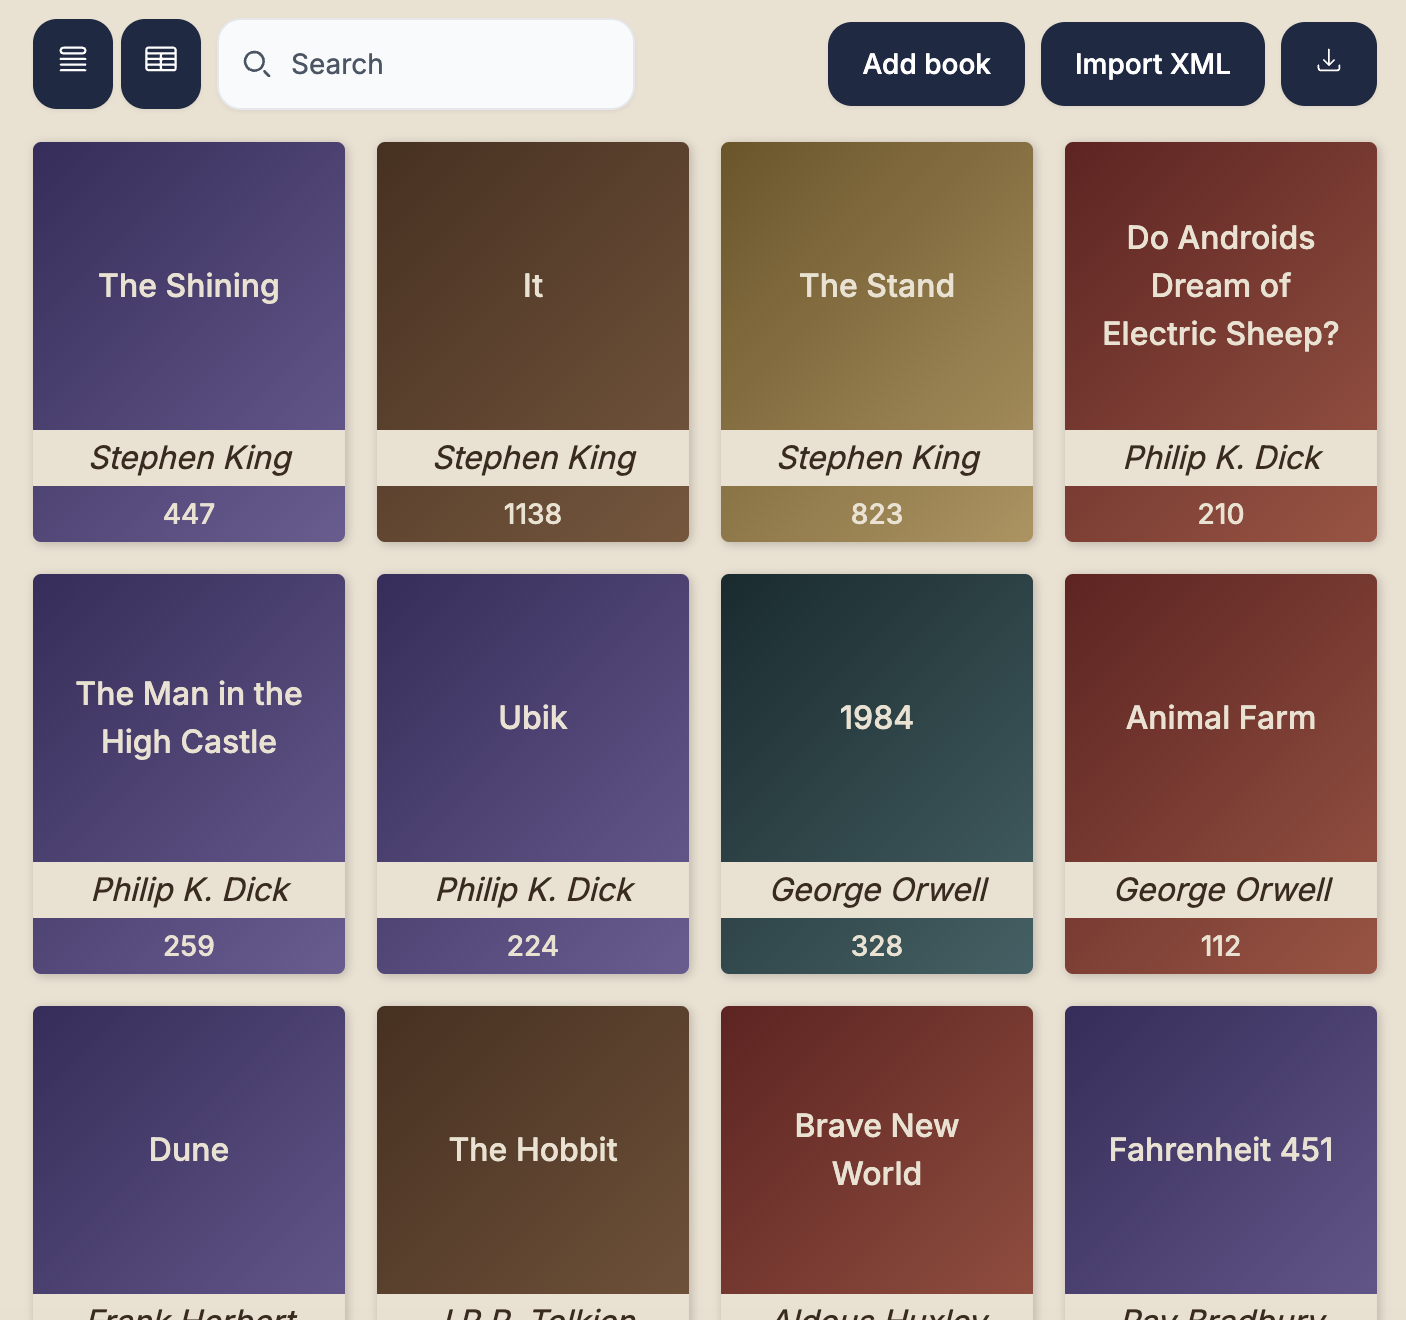
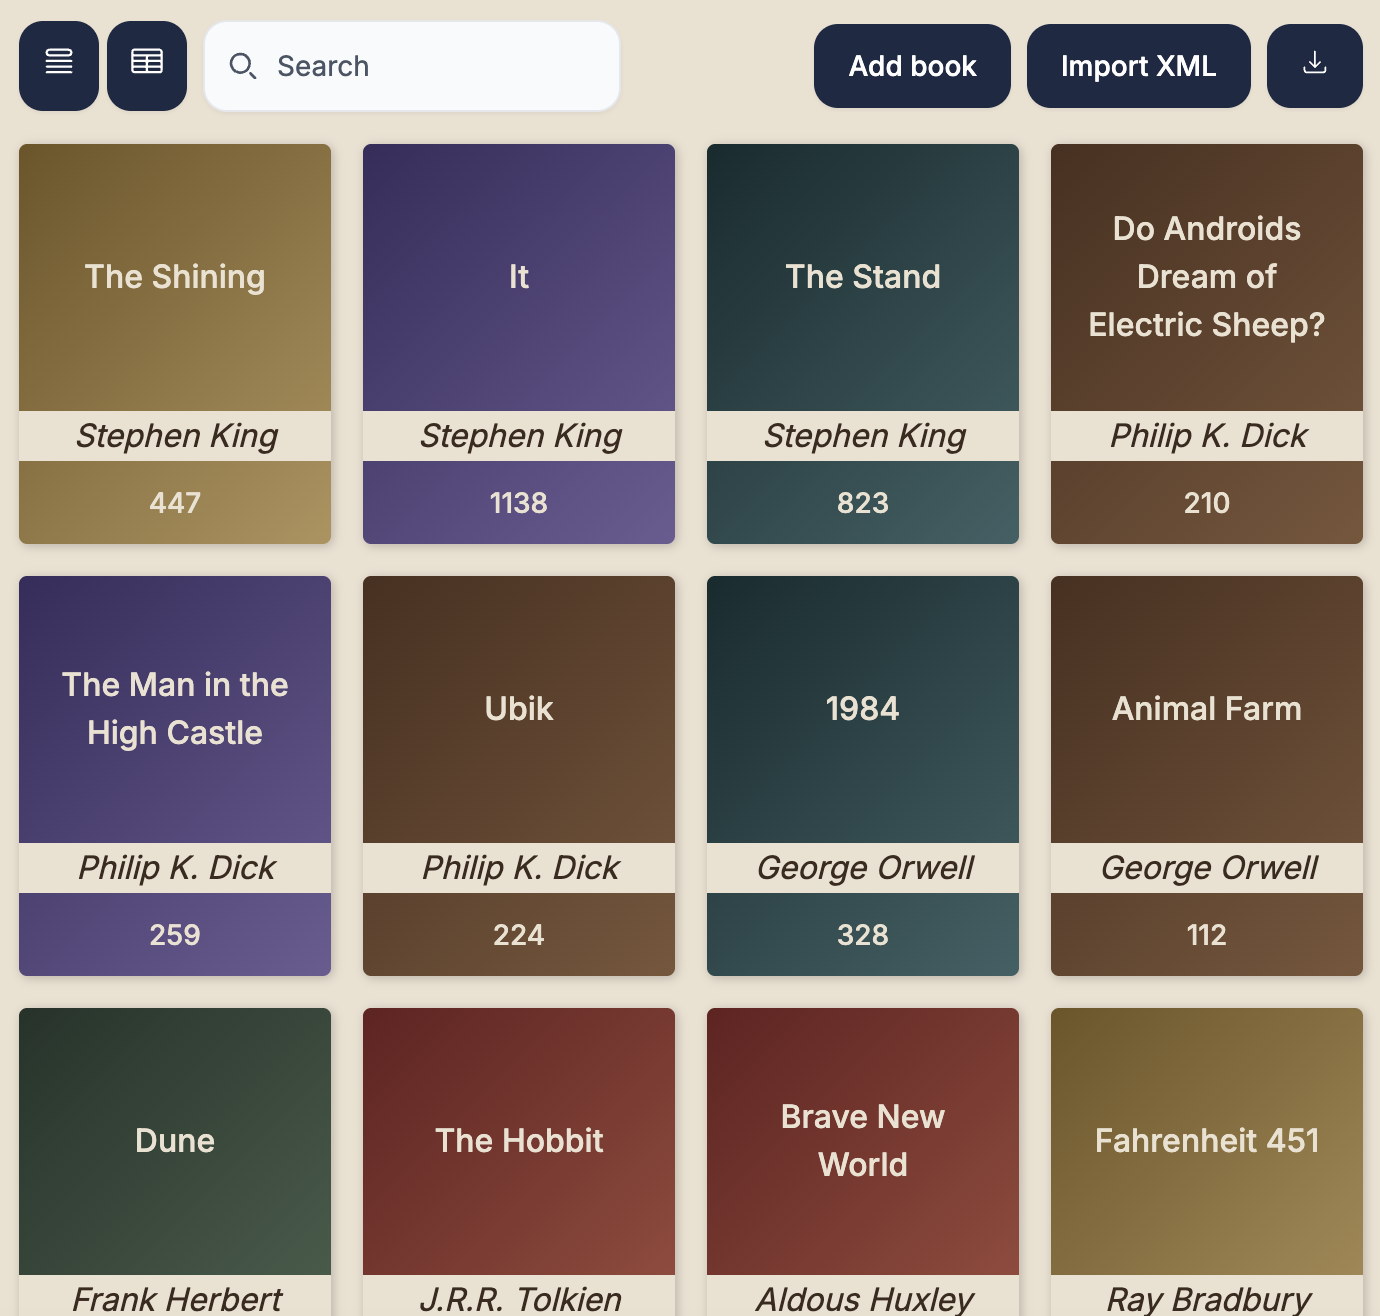
moved axios to devDeps, changed main image and redacted readme

diff --git a/README.md b/README.md
@@ -4,7 +4,7 @@
 
 # Description
 
-The project depicts the digital shelf. Use can add book manually or via importing them, search by books' titles, sort by title, author name and number of pages and export the library in the XML format to their disk.
+The project depicts the digital shelf. User can add book manually or via importing them, search by books' titles, sort by title, author name and number of pages and export the library in the XML format to their disk.
 
 Time spent: ~18 hours. (estimated 20)
 
@@ -14,27 +14,28 @@ Time spent: ~18 hours. (estimated 20)
 - **npm 11.12.1**
 - **Angular 22.1.4**
 - **Angular CDK 22.1.6** - this was chosen to work with structural components like dialogs and menus, and serves as the backbone of the UI for the project.
-- **NX 23.2.0** - this one was an overhead for the required functionality, however I accounted the nature of the project as a skills and reasoning showcase and decided to include it as package like that would be an integral part in decision making for the requirements of the role I'm interviewing for. NX gave me the space to isolate moving parts of the projects and provided the tooling for faster development, testing, linting and building.
-- Angul
-- **TailwindCSS v4** - in my experience, this framework provides the best tooling for the quick and clean development, more importantly, it was a requirement for the design system I've chosen. Pure vanilla css with it's modern capabilities would be a perfectly fine choice too.
+- **NX 23.2.0** - this one was an overhead for the required functionality, however, given the nature of the project as a skills-and-reasoning-showcase, I've decided to include it as a package, since that would be an integral part in a decision making for the requirements of the role I'm interviewing for. NX gave me the space to isolate moving parts of the projects and provided the tooling for faster development, testing, linting and building.
+- **TailwindCSS v4** - in my experience, this framework provides the best tooling for the quick and clean development, more importantly, it was a requirement for the design system I've chosen. Pure vanilla css with its modern capabilities would be a perfectly fine choice too.
 - **Flowbite** - Tailwind-based component library for accessible UI primitives. Angular Material was the closest alternative, but I preferred the flexibility and speed of development that Flowbite + Tailwind gave me.
 - **@ng-icons** - nice little tree shakeable lib to work with popular svg icons, that provides the access for more than 115000 icons (although 4 was enough for my scope this time)
-- **ng-openapi-gen** - although designing the API or anything related to that wasn't a part of the requirements, I've decided to chose this path to showcase the system design thinking and decision making. This little package set me free from thinking about API layer of the app, as it would automatically generate all models and services from the API docs.
-- **husky** - to simplify commiting process and glue linting, testing and building of the app into one little chain
+- **ng-openapi-gen** - designing the API wasn't a part of the requirements, but I decided to choose this path to showcase the system design thinking and decision making. This package set me free from thinking about the API layer of the app, as it would automatically generate all models and services from the API docs.
+- **husky** - to simplify the process of linting, testing and building of the app into one little chain
 - **fast-xml-parser 5.11.1 + fast-xml-builder 1.3.1** - the problem of parsing XML and turning it to JSON and vice versa is a fascinating leetcode problem, but I had no time for this one, so just went with the popular solution that just works.
-- **Vitest**
+- **Vitest** - fastest and most efficient testing framework for modern frontend projects.
 
 Other:
 
-- express - for the REST API
+- **Prettier** - for consistent code formatting across the project.
+- **express** - minimal web application written in the same language (TypeScript). NestJS was an option, but I really needed a barebones app with no additional abstractions.
+- **axios** - a part of the scaffolded backend tests
 
 # Architecture
 
 ### High level visual design
 
-Using pencil, camera and Obsidian, I've creatd the initial mockups of the project. Using anything more complicated like Figma would be overkill, but I wanted to have the high level blocks for inspiration and just to offload the image from my head to the screen.
+Using pencil, camera and Obsidian, I've created the initial mockups of the project. Using anything more complicated like Figma would be overkill, but I wanted to have the high level blocks for inspiration and just to offload the image from my head to the screen.
 
-Something went missing from this image and was added later, but generally speaking that was a starting point.
+That was a starting point.
 
 ![Mockups](.docs/assets/high-level-design.png)
 
@@ -47,19 +48,19 @@ Something went missing from this image and was added later, but generally speaki
 - Automated API layer generation
 - Strict relations between all parts of the app
 
-The project is divided into 2 little apps, one is for the small backend and one for the frontend. Although backend was out of the scope in the requirement, I've decided to give it a shot as I thought that would give the project a better shape according to the test nature of the task.
+The project is divided into 2 apps, one is for the backend and one for the frontend. Although backend was out of the scope in the requirement, I've decided to give it a shot as I thought that would give the project a better shape according to the test nature of the task.
 
-NX gives us the tooling for smart caching and development, also it suggests a opinionated structure with 2 core points: apps and libs / packages.
+NX gives us the tooling for smart caching and development, also it suggests an opinionated structure with 2 core points: apps and libs / packages.
 
 The core of the project is shown in the screenshot below.
 
 ![File structure](.docs/assets/file-structure.png)
 
-**libs** folder only includes the frontend related libs and api app is fully sufficient on its own. In other case, it would make sense to structure it a bit differently to separate the code for the backend and a frontend, but for this project this is enough.
+**libs** folder only includes the frontend related libs and api app is fully sufficient on its own. Otherwise, it would make sense to structure it a bit differently to separate the code for the backend and a frontend, but for this project this is enough.
 
 ### State management
 
-I decided to leave any state management libs out of the scope for this project, as it didn't make much sense for the size of the project. However, it would be pretty easy to integrate it on the project phase, and considering that I've chose **Angular Signals** as a driver for the state management, NGRX Signals store would be my choice moving forward.
+I decided to leave any state management libs out of the scope for this project, as it didn't make much sense for the size of the project. However, it would be pretty easy to integrate it on the project phase, and considering that I've chosen **Angular Signals** as a driver for the state management, NGRX Signals store would be my choice moving forward.
 
 ### Modules boundaries
 
@@ -69,7 +70,7 @@ All libs are isolated packages that live under the rules of relations specified 
 
 ### Structure
 
-The architecture itself is pretty straightforward and NX built in tool "graph" can show us how it look like.
+The architecture itself is pretty straightforward and NX built in tool "graph" can show us how it looks.
 
 ![NX Graph](.docs/assets/nx-graph.png)
 
@@ -77,9 +78,9 @@ Libs are basically features. They **expose their own APIs** for other features t
 
 # Roadmap and progression
 
-I've kept all my progress going in the trello board. Partially to show you my day to day, work process, and partially to keep the plan and steps in the reliable storage.
+I've kept all my progress in the Trello board. Partially to show you my day to day, work process, and partially to keep the plan and steps in the reliable storage.
 
-Here you can see my progress. I've kept the documentation in the very short format just to save time, but here you also can see what would be my next steps if I (or anyone after me) would keep working working on the project.
+Here you can see my progress. I've kept the documentation in the very short format just to save time, but here you also can see what would be my next steps if I (or anyone after me) would keep working on the project.
 
 [Trello Board](https://trello.com/invite/b/6aa7baef9367f49db846e46e/ATTId688a8f4dda9b8995fc5d53fb617c0749736E09F/fulcrum-library)
 
@@ -87,16 +88,16 @@ This is how I usually document my dev work:
 
 ![Git history](.docs/assets/git-hist.png)
 
-### What is left out of question and why
+### What was left out, and why
 
 Some things were either skipped or just left out of work, mostly due to the lack of time. More precisely, what was omitted:
 
-1. Fuller tests coverage. Unit, integration and e2e tests for the frontend part of the app.
+1. Fuller tests coverage. Unit, integration and e2e tests for the frontend part of the app. Playwright is already configured.
 2. CI/CD and github connection - next thing would be creating an automated pipeline to deploy the app to the staging and prod environment
-3. Authentication - this one looks pretty obvious and even presented in the Trello's backlog
-4. Pagination - pretty much the same as #3.
+3. Authentication - skipped for now due to time constraints.
+4. Pagination - skipped for the time constraints, but also the future design decision is yet unclear (it could be infinite scrolling or traditional pagination).
 5. UI/UX improvement - in broad terms, the improvements of the feelings you get while working with the app.
-6. Localization
+6. Localization - is not needed for such a small project, but could be considered in the future if the project grows and needs to support multiple languages.
 
 # How to run
 
